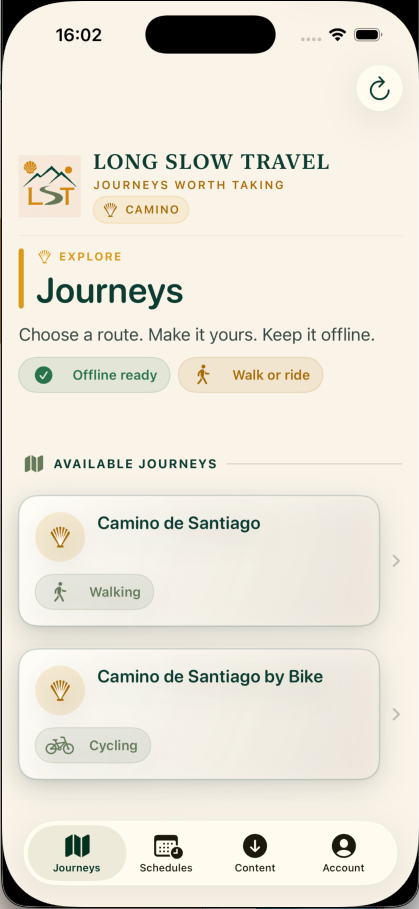
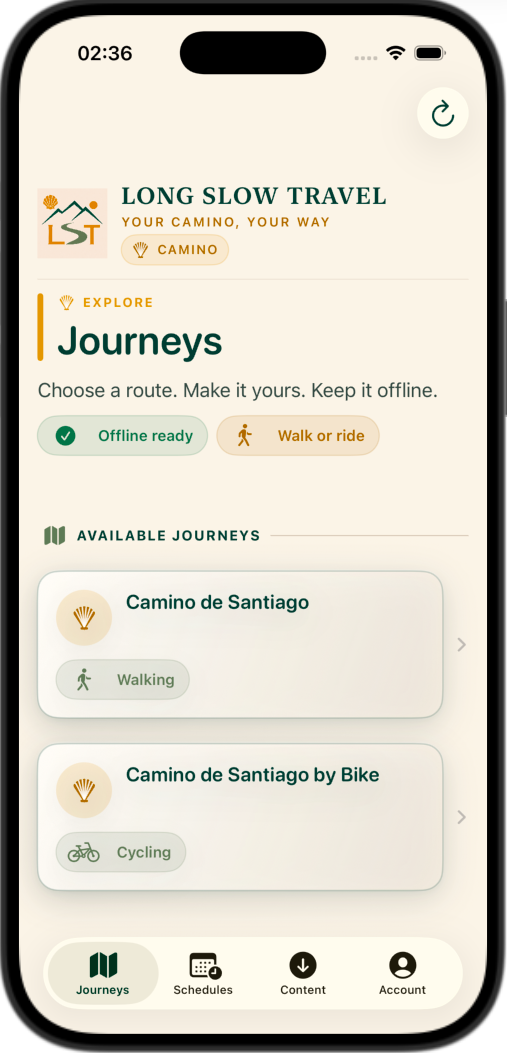
Update Camino tagline across website

Changed region(s): [[0.0, 0.0, 1.0, 1.0], [0.8687, 0.7085, 0.8998, 0.7393]]

diff --git a/imprint/index.html b/imprint/index.html
@@ -15,7 +15,7 @@
   <a class="skip-link" href="#main-content">Zum Inhalt springen</a>
   <header class="site-header">
     <div class="shell header-inner">
-      <a class="brand" href="../" aria-label="Long Slow Travel Startseite"><img src="../assets/long-slow-travel-mark.png" alt="" width="52" height="52"><span class="brand-copy"><strong>Long Slow Travel</strong><span>Journeys worth taking</span></span></a>
+      <a class="brand" href="../" aria-label="Long Slow Travel Startseite"><img src="../assets/long-slow-travel-mark.png" alt="" width="52" height="52"><span class="brand-copy"><strong>Long Slow Travel</strong><span>Your Camino, Your Way</span></span></a>
       <button class="nav-toggle" type="button" aria-expanded="false" aria-controls="primary-nav"><span class="sr-only">Navigation öffnen</span><span></span><span></span><span></span></button>
       <nav id="primary-nav" class="primary-nav" aria-label="Hauptnavigation"><a href="../">LST Camino Planner</a><a href="../support/">Support</a><a href="../privacy/">Privacy</a><a href="./" aria-current="page">Impressum</a></nav>
     </div>
@@ -62,7 +62,7 @@
 
   <footer class="site-footer">
     <div class="shell footer-grid">
-      <a class="brand footer-brand" href="../" aria-label="Long Slow Travel Startseite"><img src="../assets/long-slow-travel-mark.png" alt="" width="48" height="48"><span class="brand-copy"><strong>Long Slow Travel</strong><span>Journeys worth taking</span></span></a>
+      <a class="brand footer-brand" href="../" aria-label="Long Slow Travel Startseite"><img src="../assets/long-slow-travel-mark.png" alt="" width="48" height="48"><span class="brand-copy"><strong>Long Slow Travel</strong><span>Your Camino, Your Way</span></span></a>
       <nav aria-label="Seitennavigation"><a href="../support/">Support</a><a href="../privacy/">Privacy</a><a href="./">Impressum</a><a href="mailto:support@longslowtravel.com">Kontakt</a></nav>
       <p>© <span data-current-year>2026</span> Long Slow Travel.<br>Made for the long way around.</p>
     </div>

diff --git a/privacy/index.html b/privacy/index.html
@@ -15,7 +15,7 @@
   <a class="skip-link" href="#main-content">Skip to content</a>
   <header class="site-header">
     <div class="shell header-inner">
-      <a class="brand" href="../" aria-label="Long Slow Travel home"><img src="../assets/long-slow-travel-mark.png" alt="" width="52" height="52"><span class="brand-copy"><strong>Long Slow Travel</strong><span>Journeys worth taking</span></span></a>
+      <a class="brand" href="../" aria-label="Long Slow Travel home"><img src="../assets/long-slow-travel-mark.png" alt="" width="52" height="52"><span class="brand-copy"><strong>Long Slow Travel</strong><span>Your Camino, Your Way</span></span></a>
       <button class="nav-toggle" type="button" aria-expanded="false" aria-controls="primary-nav"><span class="sr-only">Open navigation</span><span></span><span></span><span></span></button>
       <nav id="primary-nav" class="primary-nav" aria-label="Primary navigation"><a href="../">LST Camino Planner</a><a href="../support/">Support</a><a href="./" aria-current="page">Privacy</a><a href="../imprint/">Impressum</a></nav>
     </div>
@@ -140,7 +140,7 @@
 
   <footer class="site-footer">
     <div class="shell footer-grid">
-      <a class="brand footer-brand" href="../" aria-label="Long Slow Travel home"><img src="../assets/long-slow-travel-mark.png" alt="" width="48" height="48"><span class="brand-copy"><strong>Long Slow Travel</strong><span>Journeys worth taking</span></span></a>
+      <a class="brand footer-brand" href="../" aria-label="Long Slow Travel home"><img src="../assets/long-slow-travel-mark.png" alt="" width="48" height="48"><span class="brand-copy"><strong>Long Slow Travel</strong><span>Your Camino, Your Way</span></span></a>
       <nav aria-label="Footer navigation"><a href="../support/">Support</a><a href="./">Privacy</a><a href="../imprint/">Impressum</a><a href="mailto:support@longslowtravel.com">Contact</a></nav>
       <p>© <span data-current-year>2026</span> Long Slow Travel.<br>Made for the long way around.</p>
     </div>

diff --git a/support/index.html b/support/index.html
@@ -17,7 +17,7 @@
     <div class="shell header-inner">
       <a class="brand" href="../" aria-label="Long Slow Travel home">
         <img src="../assets/long-slow-travel-mark.png" alt="" width="52" height="52">
-        <span class="brand-copy"><strong>Long Slow Travel</strong><span>Journeys worth taking</span></span>
+        <span class="brand-copy"><strong>Long Slow Travel</strong><span>Your Camino, Your Way</span></span>
       </a>
       <button class="nav-toggle" type="button" aria-expanded="false" aria-controls="primary-nav"><span class="sr-only">Open navigation</span><span></span><span></span><span></span></button>
       <nav id="primary-nav" class="primary-nav" aria-label="Primary navigation"><a href="../">LST Camino Planner</a><a href="./" aria-current="page">Support</a><a href="../privacy/">Privacy</a><a href="../imprint/">Impressum</a></nav>
@@ -73,7 +73,7 @@
 
   <footer class="site-footer">
     <div class="shell footer-grid">
-      <a class="brand footer-brand" href="../" aria-label="Long Slow Travel home"><img src="../assets/long-slow-travel-mark.png" alt="" width="48" height="48"><span class="brand-copy"><strong>Long Slow Travel</strong><span>Journeys worth taking</span></span></a>
+      <a class="brand footer-brand" href="../" aria-label="Long Slow Travel home"><img src="../assets/long-slow-travel-mark.png" alt="" width="48" height="48"><span class="brand-copy"><strong>Long Slow Travel</strong><span>Your Camino, Your Way</span></span></a>
       <nav aria-label="Footer navigation"><a href="./">Support</a><a href="../privacy/">Privacy</a><a href="../imprint/">Impressum</a><a href="mailto:support@longslowtravel.com">Contact</a></nav>
       <p>© <span data-current-year>2026</span> Long Slow Travel.<br>Made for the long way around.</p>
     </div>

diff --git a/index.html b/index.html
@@ -25,7 +25,7 @@
         <img src="assets/long-slow-travel-mark.png" alt="" width="52" height="52">
         <span class="brand-copy">
           <strong>Long Slow Travel</strong>
-          <span>Journeys worth taking</span>
+          <span>Your Camino, Your Way</span>
         </span>
       </a>
 
@@ -67,7 +67,7 @@
           <div class="contour contour-two" aria-hidden="true"></div>
 
           <figure class="journeys-capture">
-            <span class="screen-frame"><img src="assets/lst-camino-journeys.png" alt="LST Camino Planner Journeys screen showing offline-ready walking and cycling Camino de Santiago journeys" width="419" height="909"></span>
+            <span class="screen-frame"><img src="assets/lst-camino-journeys.png" alt="LST Camino Planner Journeys screen showing offline-ready walking and cycling Camino de Santiago journeys" width="507" height="1053"></span>
             <figcaption>Actual LST Camino Planner Journeys screen</figcaption>
           </figure>
         </div>
@@ -236,7 +236,7 @@
     <div class="shell footer-grid">
       <a class="brand footer-brand" href="./" aria-label="Long Slow Travel home">
         <img src="assets/long-slow-travel-mark.png" alt="" width="48" height="48">
-        <span class="brand-copy"><strong>Long Slow Travel</strong><span>Journeys worth taking</span></span>
+        <span class="brand-copy"><strong>Long Slow Travel</strong><span>Your Camino, Your Way</span></span>
       </a>
       <nav aria-label="Footer navigation"><a href="support/">Support</a><a href="privacy/">Privacy</a><a href="imprint/">Impressum</a><a href="mailto:support@longslowtravel.com">Contact</a></nav>
       <p>© <span data-current-year>2026</span> Long Slow Travel.<br>Made for the long way around.</p>

diff --git a/styles.css b/styles.css
@@ -116,6 +116,8 @@ p { margin: 0; }
 
 .screen-frame { position: relative; z-index: 1; display: block; overflow: hidden; background: var(--cream); border: 1px solid rgba(11, 59, 49, .08); border-radius: 43px; box-shadow: var(--shadow); }
 .screen-frame img { width: calc(100% + 10px); max-width: none; height: auto; margin: -5px; }
+.journeys-capture .screen-frame { aspect-ratio: 447 / 987; border-radius: 48px; }
+.journeys-capture .screen-frame img { position: absolute; top: -2.84%; left: -6.71%; width: calc(100% * 507 / 447); margin: 0; }
 
 .phone-bar { height: 36px; display: flex; align-items: center; justify-content: space-between; padding: 0 21px; color: var(--pine); font-size: 9px; font-weight: 800; }
 .app-screen { font-family: var(--sans); }
